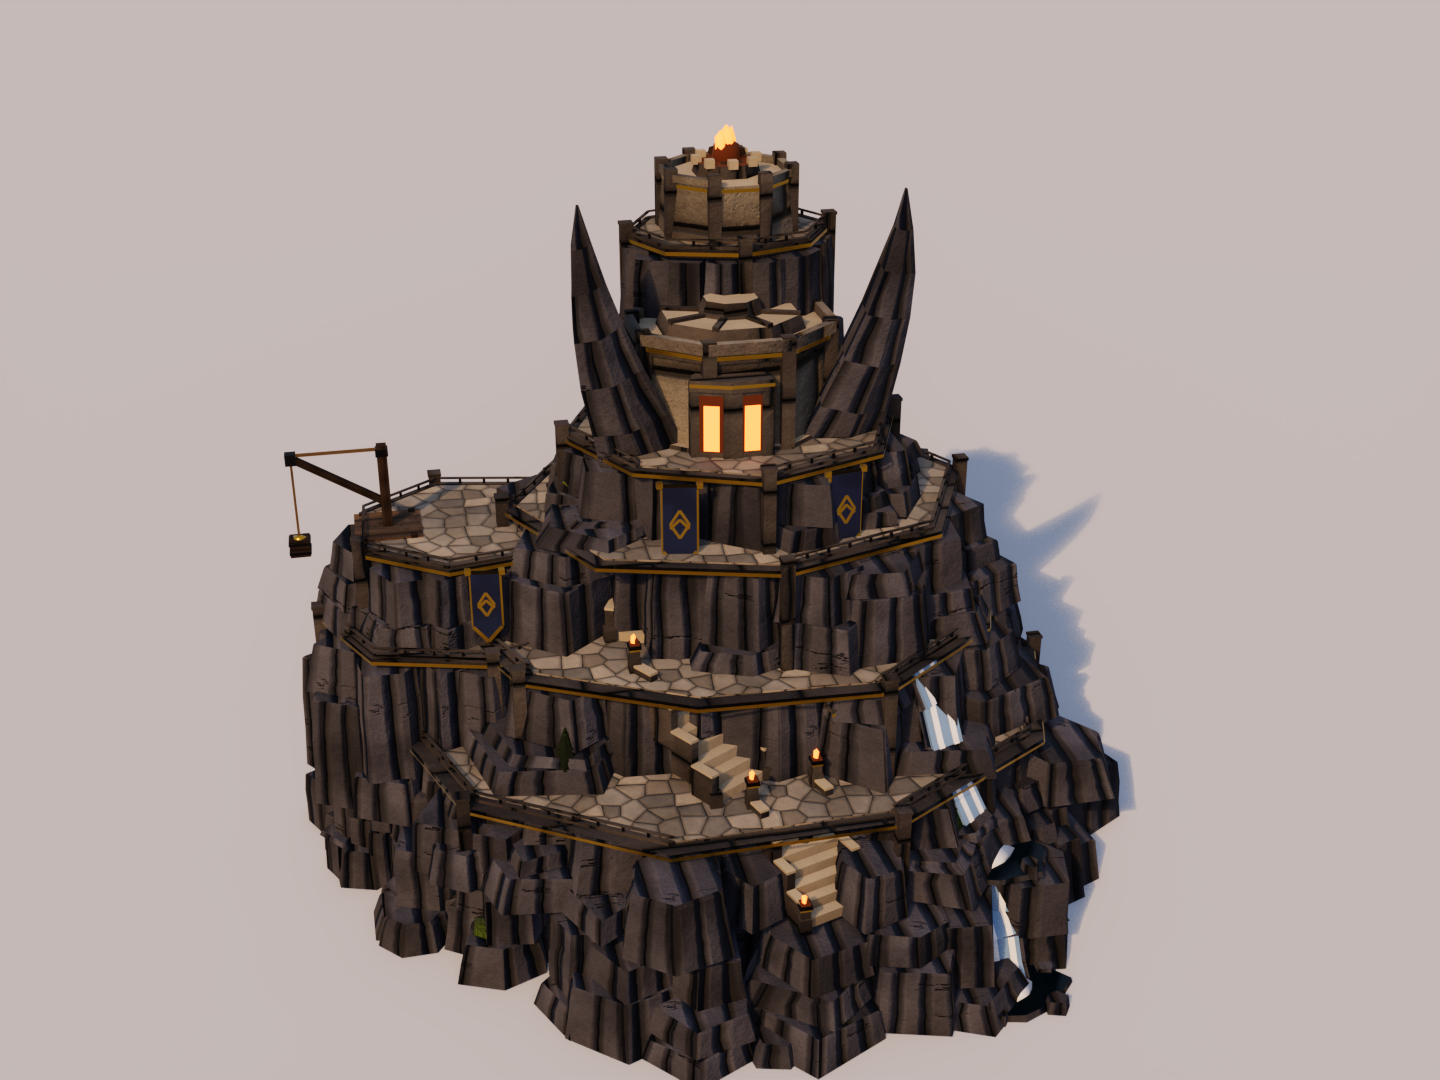
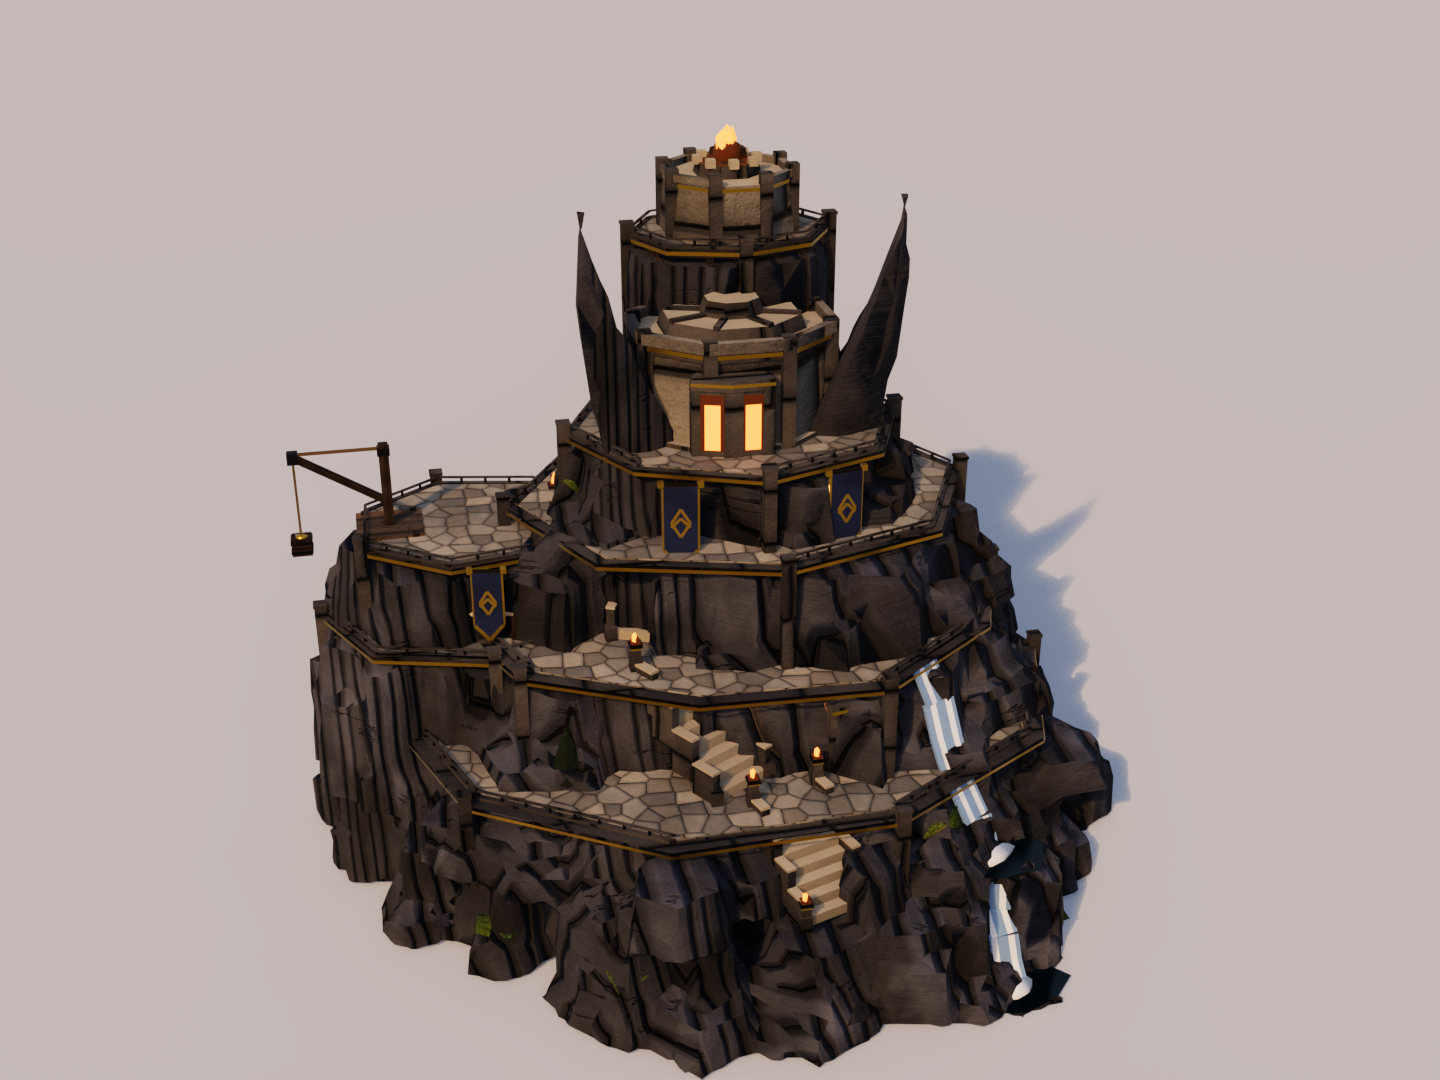
feat(towns): sculpted Stonehold rock and in-game surfaces for new materials
AAA pass phases 1-2 (Stonehold):
- TownKitSurfaces: M_rock_cliff shades as stone (relief, crevices, moss and
  streaks) and M_stone_flag as paving; both fell back to the flat default.
- medkit/sculpt.py turns each formation's blockout crags into one sculpted
  rock: weld and close, voxel remesh, columnar Voronoi + crackle displace,
  drop pebble islands and the hidden underside, decimate to budget, smooth
  by angle, wrap UVs round the bluff centres, and bake Cycles AO into the
  shared 'Col' shading the game multiplies in.
- Triangle budgets asserted in the build: rock >= 12k (never fewer than
  the blockout) at LOD0, whole formation <= 36k at LOD0 and <= 12k at LOD1.

Changed region(s): [[0.1875, 0.1833, 0.8125, 1.0]]

diff --git a/src/editor/towns/TownKitSurfaces.js b/src/editor/towns/TownKitSurfaces.js
@@ -27,6 +27,9 @@ export const SURFACES = Object.freeze({
   M_stone_basalt: { role: ROLE.stone, normal: 1.8, cavity: 0.68, parallax: 0.018 },
   M_brick: { role: ROLE.stone, normal: 2.2, cavity: 0.72, parallax: 0.024 },
   M_cobble: { role: ROLE.paving, normal: 2.15, cavity: 0.72, parallax: 0.032 },
+  // Stonehold: columnar cliff basalt (moss and rain streaks as stone) and terrace flagstones.
+  M_rock_cliff: { role: ROLE.stone, normal: 2.4, cavity: 0.75, parallax: 0.03 },
+  M_stone_flag: { role: ROLE.paving, normal: 1.6, cavity: 0.6, parallax: 0.016 },
   M_roof: { role: ROLE.roof, normal: 2.3, cavity: 0.78, parallax: 0.028, gain: 1.05 },
   M_roof_terracotta: { role: ROLE.roof, normal: 2.0, cavity: 0.68, parallax: 0.024 },
   M_thatch: { role: ROLE.roof, normal: 1.9, cavity: 0.6, parallax: 0.022 },

diff --git a/tools/blender/medieval_town_kit/medkit/sculpt.py b/tools/blender/medieval_town_kit/medkit/sculpt.py
@@ -1,0 +1,208 @@
+"""Turns a module's blockout rock into sculpted, game-budget rock (Stonehold AAA pass).
+
+The procedural crag blocks (stonehold_parts) are the blockout. Their faces are split off,
+voxel-remeshed into one solid, displaced with columnar fracture noise, decimated back to
+no more triangles than the blockout rock had, smoothed by angle, wrapped with the tiled
+rock texture, given baked ambient occlusion in the shared 'Col' vertex shading, and joined
+back. The game multiplies 'Col' into the colour (TownKitMaterial data.x), so the baked
+occlusion ships without per-asset textures.
+"""
+import math
+import random
+
+import bmesh
+import bpy
+from mathutils import Vector
+
+from . import materials
+from .config import detailed
+
+ROCK = 'M_rock_cliff'
+# Triangle budgets: sculpted rock gets at least ROCK_FLOOR at LOD0 (never fewer than the
+# blockout had); a whole formation stays under MODULE_TRIS (LOD0) / MODULE_TRIS_LOD1.
+ROCK_FLOOR = 12000
+MODULE_TRIS = 36000
+MODULE_TRIS_LOD1 = 12000
+
+
+def _split_rock(obj):
+    """Move obj's rock faces into a new object; None if it has none."""
+    slot = next((i for i, m in enumerate(obj.data.materials) if m and m.name == ROCK), None)
+    if slot is None:
+        return None
+    rock_me = obj.data.copy()
+    for me, keep_rock in ((rock_me, True), (obj.data, False)):
+        bm = bmesh.new()
+        bm.from_mesh(me)
+        drop = [f for f in bm.faces if (f.material_index == slot) != keep_rock]
+        bmesh.ops.delete(bm, geom=drop, context='FACES')
+        if keep_rock:
+            # MeshBuilder never welds faces, and blocks are open at the foot: weld, then close.
+            bmesh.ops.remove_doubles(bm, verts=bm.verts, dist=1e-4)
+            bmesh.ops.holes_fill(bm, edges=[e for e in bm.edges if e.is_boundary], sides=0)
+        bm.to_mesh(me)
+        bm.free()
+    rock = bpy.data.objects.new(f'{obj.name}_rock', rock_me)
+    bpy.context.scene.collection.objects.link(rock)
+    return rock
+
+
+def _apply(obj, mod):
+    deps = bpy.context.evaluated_depsgraph_get()
+    me = bpy.data.meshes.new_from_object(obj.evaluated_get(deps))
+    obj.modifiers.remove(mod)
+    old, obj.data = obj.data, me
+    bpy.data.meshes.remove(old)
+
+
+def _shape(rock, seed, voxel):
+    """Fuse and fracture: voxel remesh, then columnar Voronoi plus fine crackle displacement."""
+    rem = rock.modifiers.new('remesh', 'REMESH')
+    rem.mode = 'VOXEL'
+    rem.voxel_size = voxel
+    _apply(rock, rem)
+    # Texture space squashed in z (via a scaled empty) stretches cells into vertical columns.
+    space = bpy.data.objects.new(f'{rock.name}_space', None)
+    bpy.context.scene.collection.objects.link(space)
+    space.scale = (1.0, 1.0, 3.2)
+    space.location = (random.Random(seed).uniform(-9, 9), 0.0, 0.0)
+    for tex_type, size, strength in (('VORONOI', 0.22, 0.075), ('STUCCI', 0.06, 0.018)):
+        tex = bpy.data.textures.new(f'{rock.name}_{tex_type}', tex_type)
+        tex.noise_scale = size
+        if tex_type == 'VORONOI':
+            tex.distance_metric = 'DISTANCE'
+            tex.weight_1, tex.weight_2 = -1.0, 1.0  # F2 - F1: crisp ridges between cells
+        disp = rock.modifiers.new(f'disp_{tex_type}', 'DISPLACE')
+        disp.texture = tex
+        disp.texture_coords = 'OBJECT'
+        disp.texture_coords_object = space
+        disp.strength = strength
+        disp.mid_level = 0.5
+        _apply(rock, disp)
+        bpy.data.textures.remove(tex)
+    bpy.data.objects.remove(space)
+
+
+def _drop_islands(rock, min_faces):
+    """Tiny separate pieces (pebbles, talus slivers) decimate into floating shards."""
+    bm = bmesh.new()
+    bm.from_mesh(rock.data)
+    seen, drop = set(), []
+    for f in bm.faces:
+        if f.index in seen:
+            continue
+        island, stack = [], [f]
+        seen.add(f.index)
+        while stack:
+            g = stack.pop()
+            island.append(g)
+            for e in g.edges:
+                for h in e.link_faces:
+                    if h.index not in seen:
+                        seen.add(h.index)
+                        stack.append(h)
+        if len(island) < min_faces:
+            drop.extend(island)
+    bmesh.ops.delete(bm, geom=drop, context='FACES')
+    bm.to_mesh(rock.data)
+    bm.free()
+
+
+def _drop_underside(rock):
+    """Faces under the ground line are never seen; remove them before spending budget."""
+    bm = bmesh.new()
+    bm.from_mesh(rock.data)
+    under = [f for f in bm.faces if f.normal.z < -0.5 and max(v.co.z for v in f.verts) < 0.03]
+    bmesh.ops.delete(bm, geom=under, context='FACES')
+    bm.to_mesh(rock.data)
+    bm.free()
+
+
+def _decimate(rock, budget):
+    tris = sum(len(p.vertices) - 2 for p in rock.data.polygons)
+    if tris > budget:
+        dec = rock.modifiers.new('decimate', 'DECIMATE')
+        dec.ratio = budget / tris
+        _apply(rock, dec)
+    rock.data.shade_smooth()
+    rock.data.set_sharp_from_angle(angle=math.radians(38))
+
+
+def _wrap_uvs(rock, centres):
+    """Side faces wrap round the nearest bluff centre (u = arc length, v = height); ledges
+    and tops take a plan projection. Matches the blockout's wrapped rock UVs."""
+    scale = materials.SPEC['rock_cliff'].scale
+    me = rock.data
+    uv = me.uv_layers.get('UVMap') or me.uv_layers.new(name='UVMap')
+    for poly in me.polygons:
+        loops = list(poly.loop_indices)
+        pts = [me.vertices[me.loops[li].vertex_index].co for li in loops]
+        if abs(poly.normal.z) > 0.72:
+            for li, p in zip(loops, pts):
+                uv.data[li].uv = (p.x / scale, p.y / scale)
+            continue
+        c = poly.center
+        cx, cy = min(centres, key=lambda k: (c.x - k[0]) ** 2 + (c.y - k[1]) ** 2)
+        a0 = math.atan2(pts[0].y - cy, pts[0].x - cx)
+        for li, p in zip(loops, pts):
+            a = math.atan2(p.y - cy, p.x - cx)
+            a += round((a0 - a) / (2 * math.pi)) * 2 * math.pi  # no wrap seam inside a face
+            r = math.hypot(p.x - cx, p.y - cy)
+            uv.data[li].uv = (a * max(r, 0.3) / scale, p.z / scale)
+
+
+def _bake_occlusion(rock, samples):
+    """Cycles AO into the 'Col' vertex shading, remapped so open faces stay near 1."""
+    me = rock.data
+    for attr in list(me.color_attributes):
+        me.color_attributes.remove(attr)
+    col = me.color_attributes.new('Col', 'BYTE_COLOR', 'CORNER')
+    me.color_attributes.active_color = col
+    scene = bpy.context.scene
+    engine = scene.render.engine
+    scene.render.engine = 'CYCLES'
+    scene.cycles.samples = samples
+    scene.world = scene.world or bpy.data.worlds.new('BakeWorld')
+    # Short rays: crevices and deck overhangs only, never neighbouring catalog modules.
+    ao_distance = scene.world.light_settings.distance
+    scene.world.light_settings.distance = 0.35
+    with bpy.context.temp_override(active_object=rock, object=rock, selected_objects=[rock],
+                                   selected_editable_objects=[rock]):
+        bpy.ops.object.bake(type='AO', target='VERTEX_COLORS')
+    scene.render.engine = engine
+    scene.world.light_settings.distance = ao_distance
+    for d in col.data:
+        ao = d.color[0]
+        v = 0.42 + 0.58 * ao
+        d.color = (v, v, v, 1.0)
+
+
+def _join(obj, rock):
+    with bpy.context.temp_override(active_object=obj, object=obj, selected_objects=[obj, rock],
+                                   selected_editable_objects=[obj, rock]):
+        bpy.ops.object.join()
+
+
+def sculpt_rock(obj, seed, centres=((0.0, 0.0),)):
+    """Replace obj's blockout rock with sculpted rock within the budgets above; returns
+    (blockout_tris, sculpted_tris) for the build's budget report."""
+    mats = obj.data.materials
+    blockout = sum(len(p.vertices) - 2 for p in obj.data.polygons
+                   if mats[p.material_index] and mats[p.material_index].name == ROCK)
+    rock = _split_rock(obj)
+    if rock is None:
+        return 0, 0
+    budget = max(blockout, ROCK_FLOOR if detailed() else blockout)
+    _shape(rock, seed, 0.045 if detailed() else 0.08)
+    _drop_islands(rock, 400 if detailed() else 60)
+    _drop_underside(rock)
+    _decimate(rock, budget)
+    _wrap_uvs(rock, centres)
+    _bake_occlusion(rock, 16 if detailed() else 4)
+    sculpted = sum(len(p.vertices) - 2 for p in rock.data.polygons)
+    assert sculpted <= budget * 1.02, f'{obj.name}: sculpted rock {sculpted} > budget {budget}'
+    _join(obj, rock)
+    total = sum(len(p.vertices) - 2 for p in obj.data.polygons)
+    limit = MODULE_TRIS if detailed() else MODULE_TRIS_LOD1
+    assert total <= limit, f'{obj.name}: {total} tris > {limit}'
+    return blockout, sculpted

diff --git a/tools/blender/medieval_town_kit/medkit/modules/stonehold_formations.py b/tools/blender/medieval_town_kit/medkit/modules/stonehold_formations.py
@@ -15,6 +15,7 @@ from mathutils import Matrix
 
 from ..config import detailed
 from ..mesh import MeshBuilder
+from ..sculpt import sculpt_rock
 from .stonehold_parts import (
     cargo_cluster,
     cliff_portal_alcove,
@@ -942,4 +943,8 @@ def define(kit):
         b = fn()
         if name in BLUFFS:
             _raise_on_bluff(b, *BLUFFS[name])
-        kit.define(name, 'nature', b)
+        obj = kit.define(name, 'nature', b)
+        if name in BLUFFS:
+            centres = [(cx, cy) for cx, cy, _, _, _ in BLUFFS[name][1]]
+            blockout, sculpted = sculpt_rock(obj, seed=len(name) * 131 + sum(map(ord, name)), centres=centres)
+            print(f'[kit] sculpted {name}: rock {blockout} -> {sculpted} tris')
